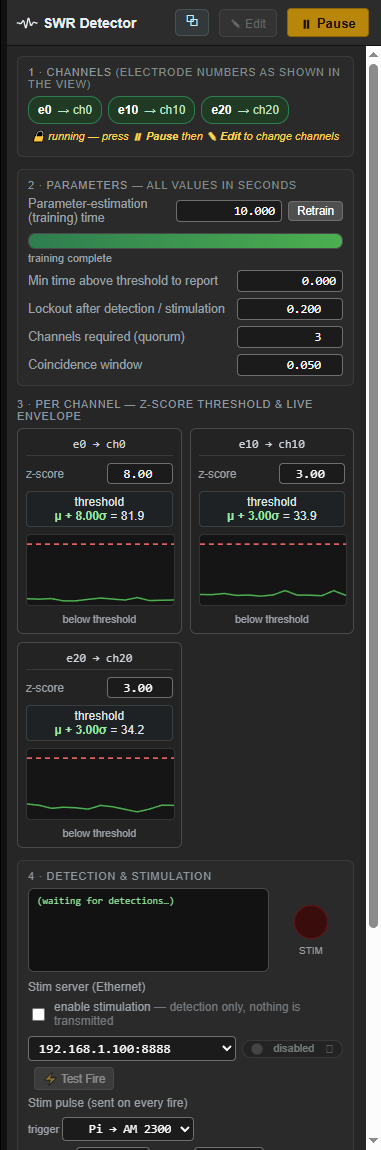
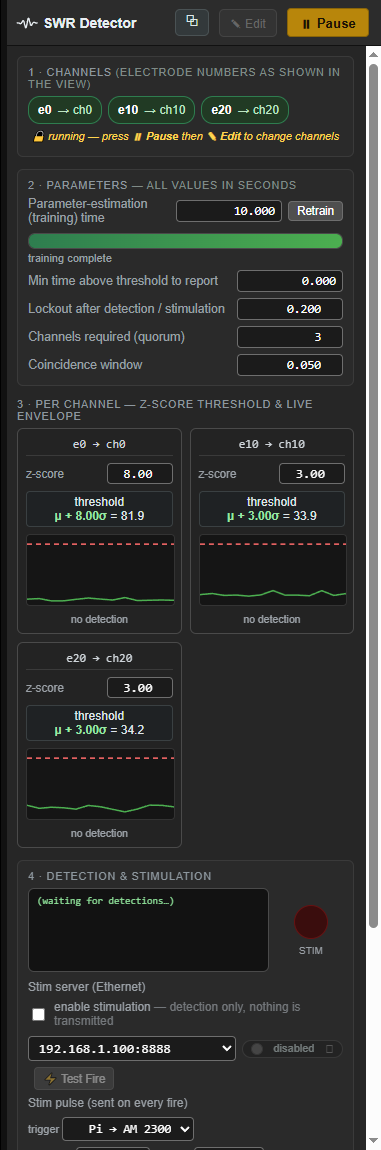
Deploying to master from @ NeuralAscension/SpikesPeak@771b88f04e331a0cfa174aa54b22ece64254b4ab 🚀

Changed region(s): [[0.6063, 0.487, 0.8084, 0.5478], [0.1732, 0.7, 0.4042, 0.7304], [0.1444, 0.5174, 0.3753, 0.5478]]

diff --git a/spikespeak/feature/OneBoxSupport/user_docs/RippleDetection.html b/spikespeak/feature/OneBoxSupport/user_docs/RippleDetection.html
@@ -236,7 +236,7 @@ block-permutation wiring). The chip shows you exactly which read-out channel you
 <tr>
 <td><strong>Parameter-estimation (training) time</strong></td>
 <td>Seconds of LFP used to estimate each channel's baseline mean/σ. Longer = steadier threshold, slower to arm.</td>
-<td>1200 s</td>
+<td>10 s</td>
 </tr>
 <tr>
 <td><strong>Train / Retrain</strong> button</td>
@@ -261,20 +261,25 @@ block-permutation wiring). The chip shows you exactly which read-out channel you
 <tr>
 <td><strong>Coincidence window</strong></td>
 <td>Time window within which the quorum's crossings must all fall.</td>
-<td>0.010 s</td>
+<td>0.050 s</td>
 </tr>
 <tr>
 <td><strong>Per-channel z-score</strong> (section ③)</td>
 <td>Each column's own <strong>z</strong>; threshold = <strong>μ + z·σ</strong>. <strong>Editable any time, even while running</strong> — live sensitivity tuning; the threshold updates instantly.</td>
-<td>3.00</td>
+<td>5.00</td>
 </tr>
 </tbody>
 </table>
 <blockquote>
-<p><strong>The "Default" column is what the dock shows before it has heard from the backend.</strong> The backend then
-sends its real values and the fields update — so if a number here does not match what you see, believe
-the dock, not this table. It matters most for the training time: the panel's 1200 s is a placeholder,
-and a detector that was set up from a script may be running something else entirely.</p>
+<p><strong>These are the DETECTOR's defaults, and the dock now shows nothing until the detector says so.</strong>
+Until 2026-09-01 this column documented the dock's own placeholders instead, and four of the five
+were wrong — 1200 s against a real 10 s, a 10 ms coincidence window against 50 ms, quorum 2 against
+1, z 3.00 against 5.00. The dock rendered those numbers, briefly, before the backend overwrote
+them, which is why this note used to say <em>"believe the dock, not this table"</em>.</p>
+<p>The placeholders are gone: backend-owned fields render <strong>empty</strong> until the detector announces, and
+clear again when no source is held. So this table can simply be true. A profile can still override
+any of these, and a detector set up from a script may be running something else — the dock shows
+what it was told, which is now the only thing it ever shows.</p>
 <p><strong>Tip — for a quick sim test</strong>, set the training time to <strong>3 s</strong> so the module arms in a few seconds instead of
 20 minutes. There is also an amplifier-settle gate before training starts — <strong>6 s</strong> on the simulated
 ripple sources (so first detection is ~9 s after Start with a 3 s training time), <strong>1 s</strong> on several
@@ -318,7 +323,7 @@ that's what the screenshots below use.)</p>
 - a <strong>status line</strong>:
   - <strong>idle — press ▶ Start</strong> — added but not running,
   - <strong>training…</strong> — running, estimating baseline,
-  - <strong>below threshold</strong> — armed and watching,
+  - <strong>no detection</strong> — armed and watching, and not part of a reported detection,
   - <strong>● RIPPLE</strong> — the envelope crossed; the column flashes red for the lockout.</p>
 <p><strong>Detection &amp; stimulation</strong> (section ④):
 - a <strong>cowsay</strong> banner prints each detection: <code>Ripple detected! k/N ch &lt;list&gt;</code> (k of N channels reported, and
@@ -340,10 +345,15 @@ channels e0 and e50 are both in <strong>● RIPPLE</strong>, so the cowsay repor
 cross <em>together</em> count. Note that stimulation is <strong>off</strong> in this shot (<code>enable stimulation</code> is unchecked and
 the server pill reads <em>disabled</em>), so the trigger is computed and <strong>nothing is transmitted</strong>:</p>
 <blockquote>
-<p><strong>Why e100 reads <em>below threshold</em> with its envelope over the line.</strong> That label means “not part of the
-reported detection” — it is the backend's detection state, not a measurement of the signal. The sparkline
-above it is the raw envelope, so a channel that crosses a moment outside the coincidence window shows
-exactly this apparent contradiction. The wording is a known bug in the dock, not a fault in the detector.</p>
+<p><strong>Why e100 can read <em>no detection</em> with its envelope over the line.</strong> Every status label describes what
+the DETECTOR reported, never what the signal is doing. A channel whose envelope crosses a moment outside
+the coincidence window — or while the quorum is already satisfied, or during the lockout — is genuinely
+not part of that detection, and says so. The sparkline above it is the raw envelope and is free to be
+above the line at the same time; the two are answering different questions.</p>
+<p>This label used to read <em>below threshold</em>, which was a claim about the SIGNAL that the sparkline directly
+above it could disprove — and in the previous version of this very screenshot, it did. Changed
+2026-09-01; <code>tests/gui/signal_claims.py</code> now asserts that no column label makes a signal-level claim the
+panel's own graph can refute.</p>
 </blockquote>
 <p><img alt="NP2 sim — quorum 2, two channels detecting together" src="images/ripple/np2_detecting_2026-09-01.png" /></p>
 <h3 id="live-threshold-tuning">Live threshold tuning<a class="headerlink" href="#live-threshold-tuning" title="Permanent link">#</a></h3>
@@ -492,7 +502,7 @@ unaffected (the envelopes + cowsay show the activity).</p>
 <li>Switch the main view to <strong>Live Data</strong>. In the dock, add electrodes <code>0, 10, 20</code> (drag them from the view, or
    type + Add).</li>
 <li>Set <strong>Parameter-estimation time = 3</strong> (for a quick test). Press <strong>▶ Start</strong>.</li>
-<li>Watch the progress bar fill (<strong>"training…"</strong>). After ~9 s the columns arm (<strong>"below threshold"</strong>), thresholds
+<li>Watch the progress bar fill (<strong>"training…"</strong>). After ~9 s the columns arm (<strong>"no detection"</strong>), thresholds
    appear (<strong>μ + 3σ ≈ 45</strong>), and detections start firing — the cowsay prints <code>Ripple detected! 1/3 ch 0</code> and the
    crossing column flashes <strong>● RIPPLE</strong>. The <strong>STIM LED stays dark</strong>, and that is correct: this walkthrough
    never enabled stimulation, and the LED lights only on a confirmed pulse from the stim server (§5a).</li>

diff --git a/spikespeak/feature/OneBoxSupport/user_docs/SimulatedData.html b/spikespeak/feature/OneBoxSupport/user_docs/SimulatedData.html
@@ -394,8 +394,9 @@ have any reason to look for it in a menu. You will not find it there.</p>
 </ul>
 <p>The NP2 ripple sim detecting live. Here <strong>quorum = 2</strong>: two of the three channels (e0, e50) cross threshold
 together, so the dock's cowsay reports <strong><code>2/3 ch 0,50</code></strong>. Stimulation is switched <strong>off</strong> in this shot, so the
-trigger is computed and nothing is transmitted. (e100 reads <em>below threshold</em> while its envelope is over the
-line — see <a href="RippleDetection.html"><code>RippleDetection.md</code></a> §5 for what that label actually means.)</p>
+trigger is computed and nothing is transmitted. (e100 reads <em>no detection</em> even with its envelope over the
+line — the labels describe what the detector reported, not what the signal is doing; see
+<a href="RippleDetection.html"><code>RippleDetection.md</code></a> §5.)</p>
 <p><img alt="NP2 ripple-detection sim — quorum 2" src="images/ripple/np2_detecting_2026-09-01.png" /></p>
 <hr />
 <h2 id="4-tuning-what-the-simulator-emits-config-knobs">4. Tuning what the simulator emits (config knobs)<a class="headerlink" href="#4-tuning-what-the-simulator-emits-config-knobs" title="Permanent link">#</a></h2>

diff --git a/spikespeak/feature/OneBoxSupport/SpikesPeak_Status.html b/spikespeak/feature/OneBoxSupport/SpikesPeak_Status.html
@@ -7366,18 +7366,18 @@ machines and item 6 happens on a different box.</p>
 <tbody>
 <tr>
 <td>1</td>
-<td><strong>#80 ASAP</strong> — gate green, commit + push <code>feature/AsapPerModule</code></td>
-<td>feature complete</td>
+<td>~~<strong>#80 ASAP</strong> — gate green, commit + push~~</td>
+<td>✅ <strong>DONE</strong> 2026-09-01 — <code>757a5a2</code>, gate 27/140/24</td>
 </tr>
 <tr>
 <td>2</td>
-<td><strong>PR for #80 → merge into <code>feature/OneBoxSupport</code>, delete the branch</strong></td>
-<td></td>
+<td>~~<strong>PR for #80 → merge, delete the branch</strong>~~</td>
+<td>✅ <strong>DONE</strong> — PR #81 MERGED (fast-forward), branch deleted, #80 closed</td>
 </tr>
 <tr>
 <td>3</td>
 <td><strong><code>"below threshold"</code> label</strong> — → <strong><code>"no detection"</code></strong> (operator decision)</td>
-<td></td>
+<td>🔴 in progress</td>
 </tr>
 <tr>
 <td>4</td>
